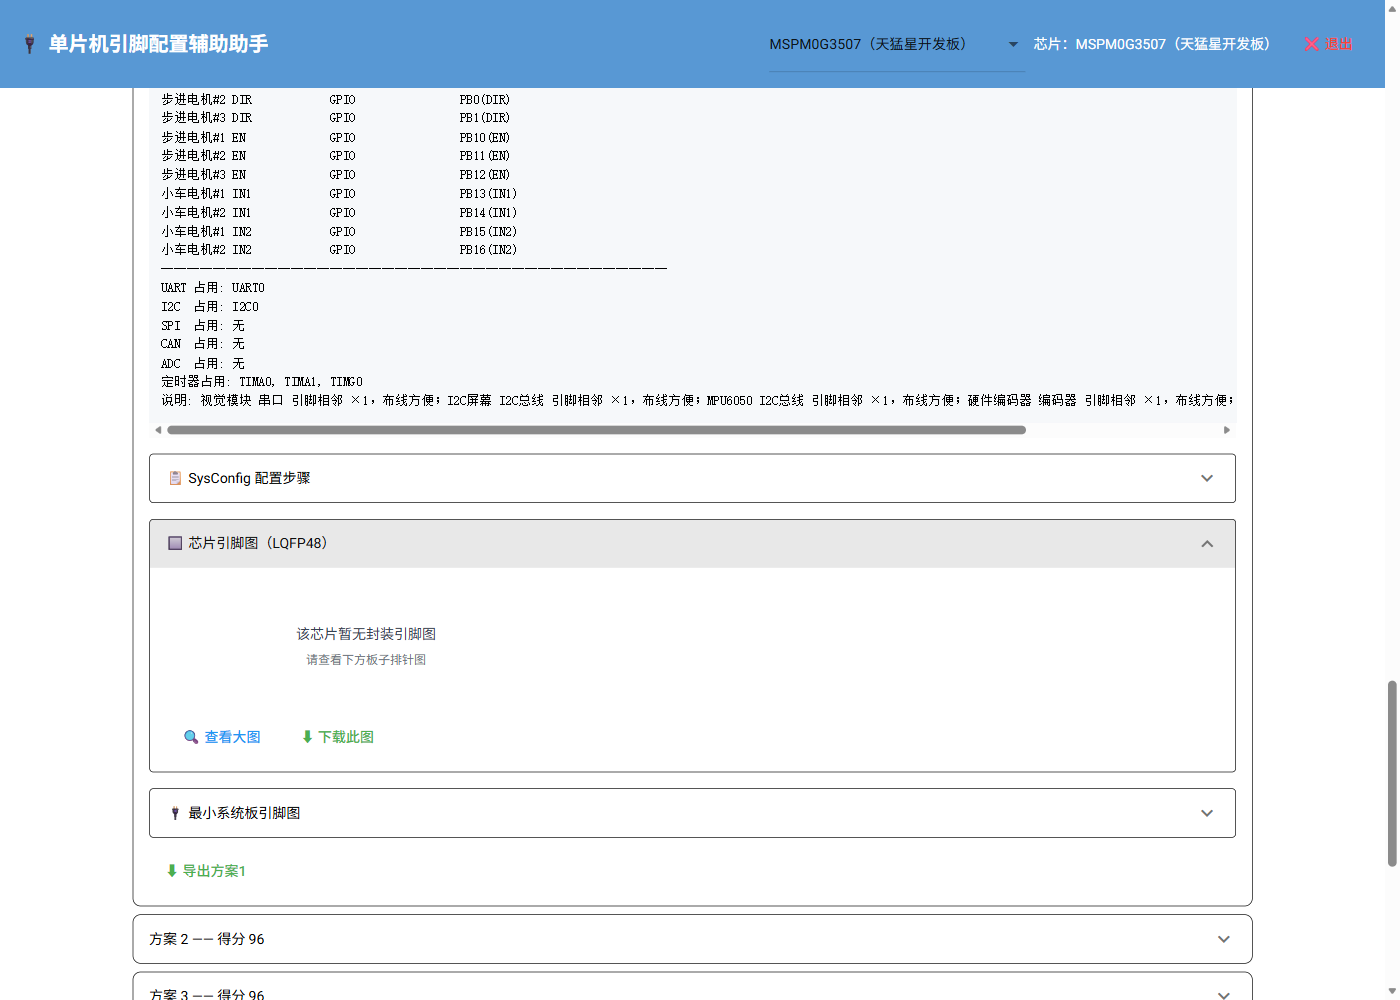
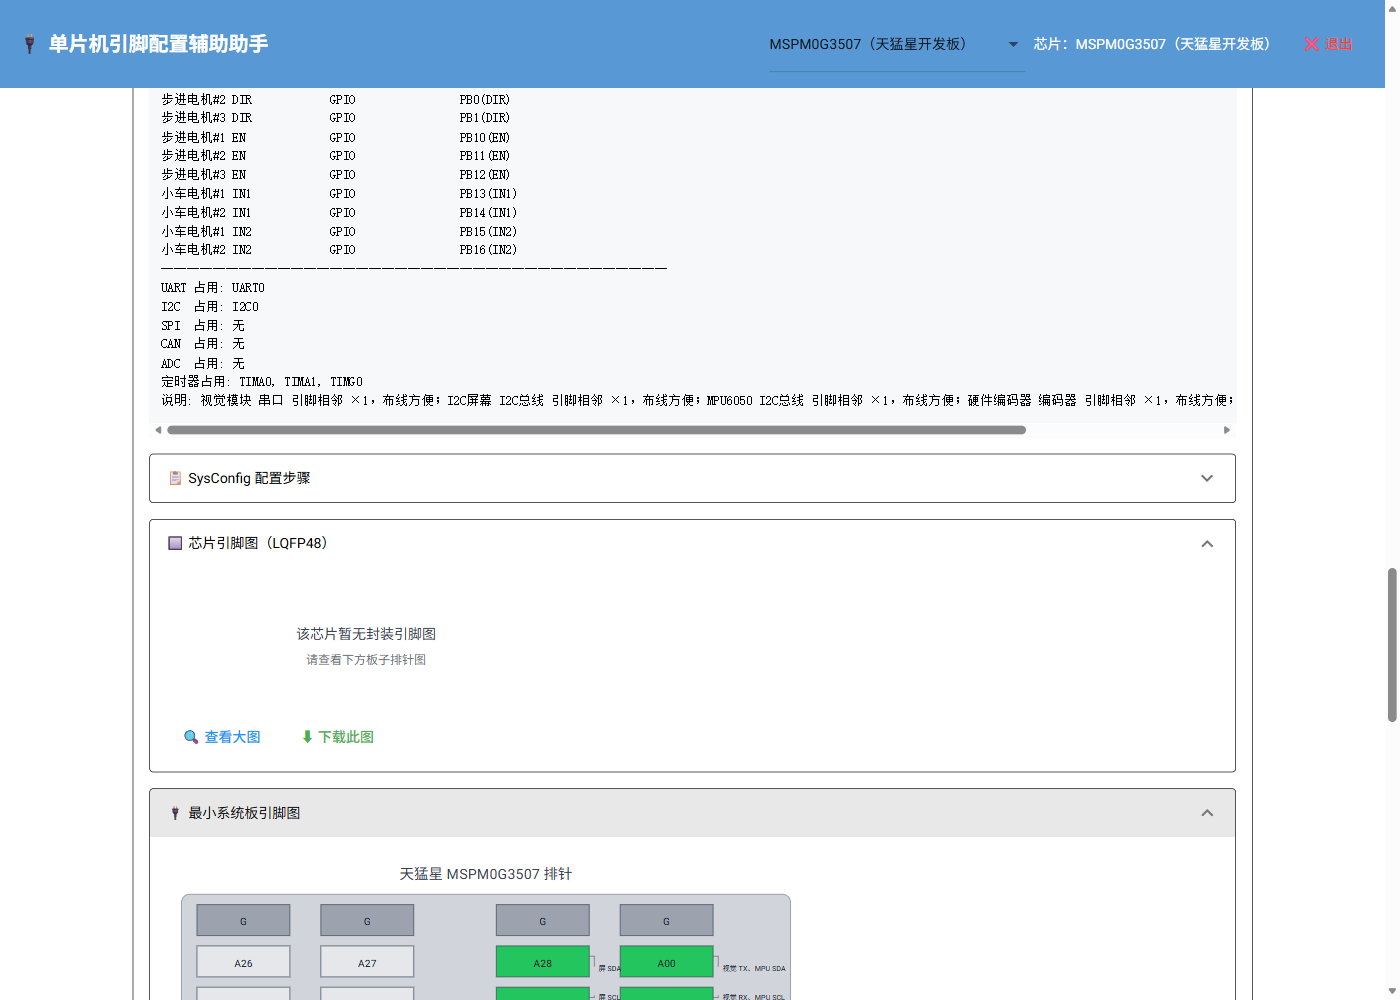
README 截图修正：MSPM0 引脚图改用最小系统板排针图

diff --git a/README.md b/README.md
@@ -118,14 +118,14 @@ python app.py
 
 ![方案详情](docs/images/03-solution-detail.png)
 
-![芯片引脚图](docs/images/04-pinout.png)
+![最小系统板引脚图](docs/images/04-pinout.png)
 
 ### 4. 引脚图可视化
 
 两处都有引脚图：
 
 - **引脚预览**（设置区）：锁定=橙色、保留=红色、空闲=浅灰，悬停看详情；
-- **方案里的引脚图**：芯片图（LQFP48）+ 最小系统板排针图（F103 两排 / MSPM0 四排），支持「🔍 查看大图」和「⬇ 下载此图」（SVG / PNG / JPG）。
+- **方案里的引脚图**：最小系统板排针图（F103 两排 / MSPM0 四排），按外设着色、工程图式引线标注，支持「🔍 查看大图」和「⬇ 下载此图」（SVG / PNG / JPG）。
 
 ### 5. 导出方案
 
